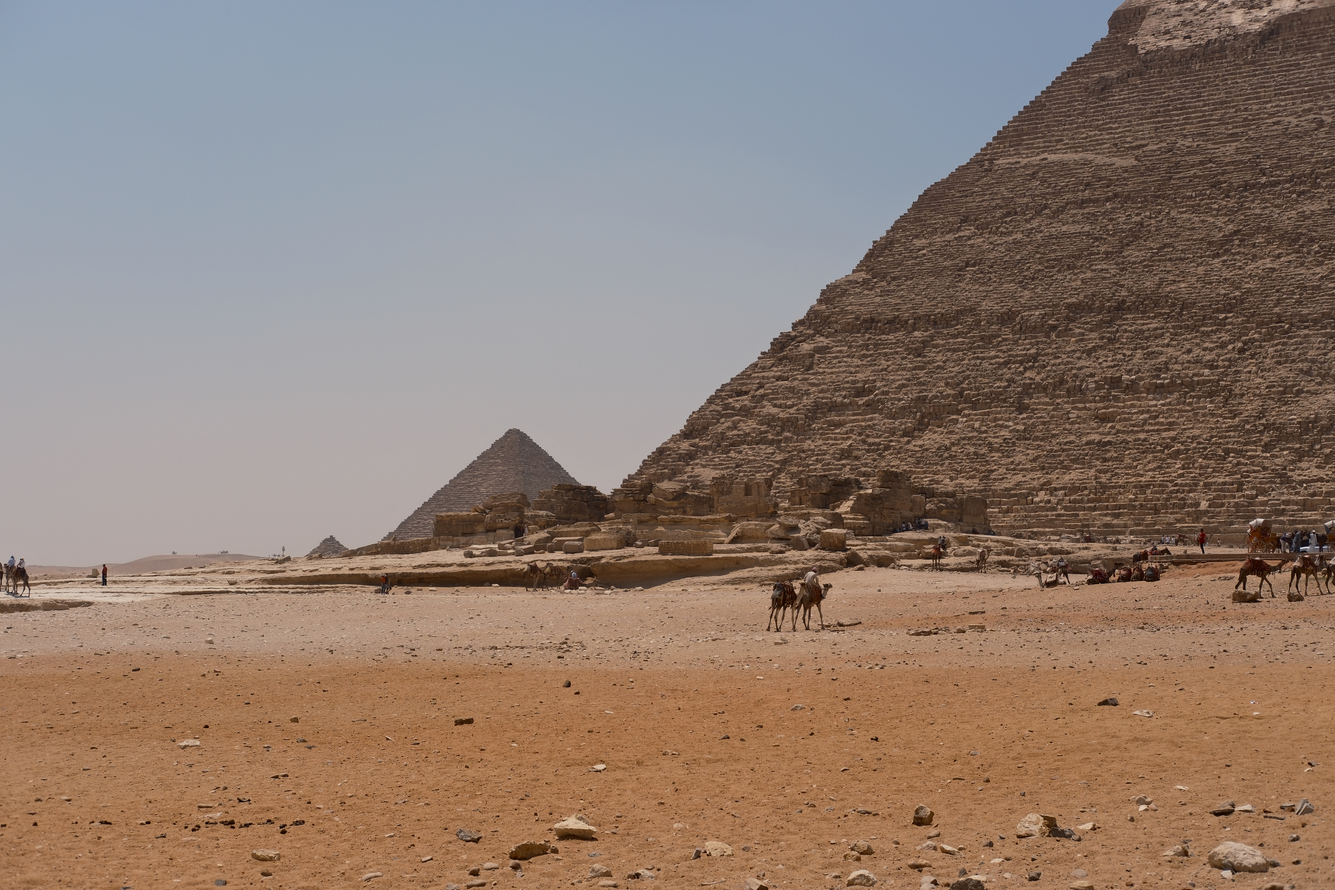
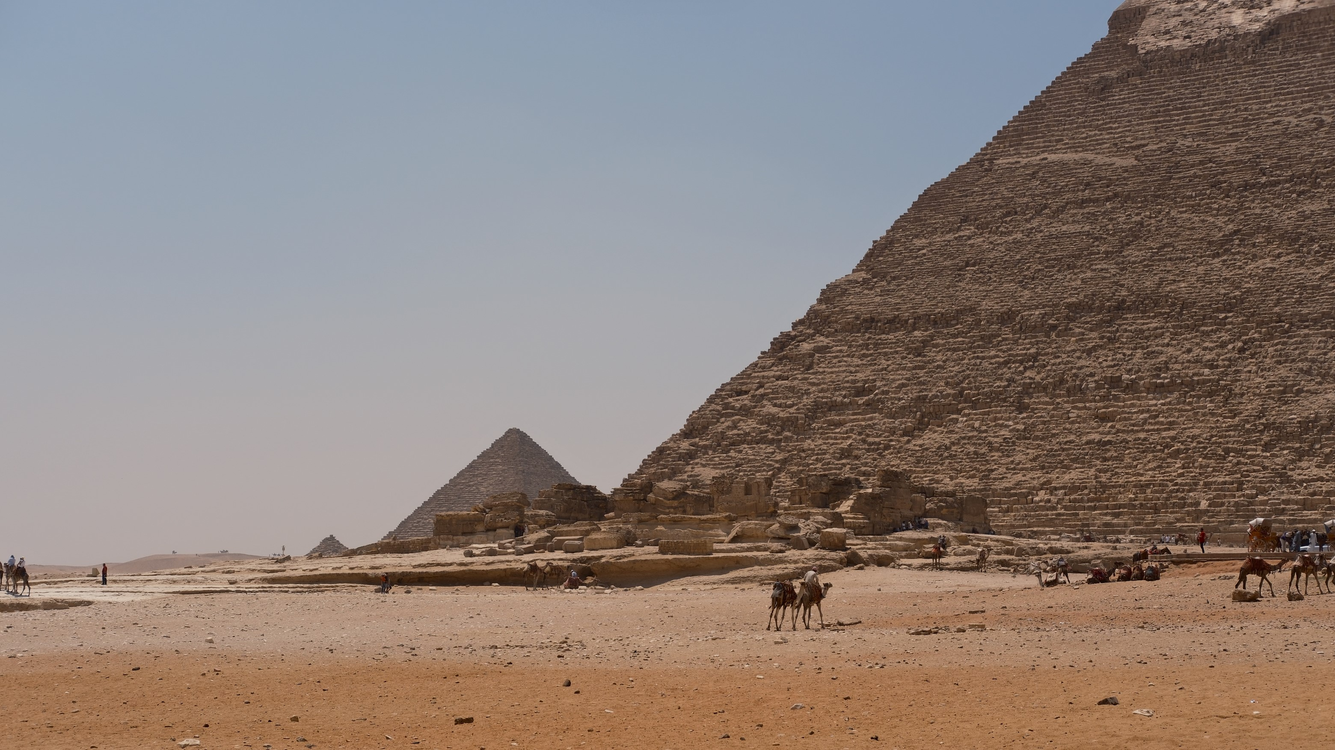
1

diff --git a/project_7/index.html b/project_7/index.html
@@ -10,10 +10,16 @@
     <link rel="preconnect" href="https://fonts.googleapis.com">
     <link rel="preconnect" href="https://fonts.gstatic.com" crossorigin>
     <link href="https://fonts.googleapis.com/css2?family=Hedvig+Letters+Serif:opsz@12..24&display=swap" rel="stylesheet">
+
+    <link href="https://stackpath.bootstrapcdn.com/bootstrap/4.3.1/css/bootstrap.min.css" rel="stylesheet">
 </head>
 <body>
+    <script src="https://code.jquery.com/jquery-3.3.1.slim.min.js"></script>
+    <script src="https://cdnjs.cloudflare.com/ajax/libs/popper.js/1.14.7/umd/popper.min.js"></script>
+    <script src="https://stackpath.bootstrapcdn.com/bootstrap/4.3.1/js/bootstrap.min.js"></script>
     <header>
-        <h1> &nbsp;&nbsp;&nbsp;&nbsp; Yihe Liu - Odyssey</h1>
+        <h1> &nbsp;&nbsp; Yihe Liu - Odyssey</h1>
+        <br>
         <nav>
             &nbsp;<a href="https://leoliu0931.github.io/ist263/project_7/index.html">Homepage</a> &nbsp;&nbsp;&nbsp;&nbsp;
             <a href="https://leoliu0931.github.io/ist263/project_7/gallery.html">Gallery</a> &nbsp;&nbsp;&nbsp;&nbsp;
@@ -22,23 +28,44 @@
             
         </nav>
         <hr>
+        <br>
+
     </header>
     <main>
-        <div>
-            <img src="../project_7/Media/lake_michigan.jpg" alt="View of Lake Michigan">
-            <p>Lake Michigan, 2021</p>
+        <div id="imageCarousel" class="carousel slide" data-ride="carousel">
+            <div class="carousel-inner">
+                <div class="carousel-item active">
+                    <img src="../project_7/Media/wild_2.jpg" class="d-block w-100" alt="Desert Nevada">
+                </div>
+                <div class="carousel-item">
+                    <img src="../project_7/Media/lake_michigan.jpg" class="d-block w-100" alt="View of Lake Michigan">
+                </div>
+                <div class="carousel-item">
+                    <img src="../project_7/Media/egypt.jpg" class="d-block w-100" alt="Pyramid of Khufu">
+                </div>
+            </div>
+
+            <a class="carousel-control-prev" href="#imageCarousel" role="button" data-slide="prev">
+                <span class="carousel-control-prev-icon" aria-hidden="true"></span>
+                <span class="sr-only">Previous</span>
+            </a>
+            <a class="carousel-control-next" href="#imageCarousel" role="button" data-slide="next">
+                <span class="carousel-control-next-icon" aria-hidden="true"></span>
+                <span class="sr-only">Next</span>
+            </a>
         </div>
         <br>
-        <div>
+        <br>
+        <div class="centered-content">
             <p> 
-                Welcome to Leo's Odyssey, It's a voyage that mirrors the spirit of adventure and the quest for 
+                &nbsp;&nbsp; Welcome to Leo's Odyssey, It's a voyage that mirrors the spirit of adventure and the quest for 
                 knowledge, as seen through my eyes. My passion for exploring uncharted territories, capturing fleeting 
                 moments with my camera, and delving into the myriad worlds of books and music, is what fuels this 
                 odyssey
             
             <br>
             <p>
-                Every road I've walked, every landscape I've photographed, every note I've lost myself in, and every 
+                &nbsp;&nbsp; Every road I've walked, every landscape I've photographed, every note I've lost myself in, and every 
                 word I've savored, has shaped the tapestry of my life. This website is a testament to these experiences 
                 and a humble attempt to share them with souls like you, who appreciate the beauty of the world in its 
                 myriad forms.
@@ -47,12 +74,11 @@
 
         </div>
 
-        <br>
-        <br>
+
         <br>
         <br>
 
-        <form action="https://formspree.io/f/xgejndky" method="post">
+        <form class = 'form' action="https://formspree.io/f/xgejndky" method="post">
             <!-- Textarea -->
             <label for="message">Please leave your comment and thoughts to help me improve.</label> <br>
             <textarea id="message" name="message" rows="6" cols="60"></textarea> <br>

diff --git a/project_7/style.css b/project_7/style.css
@@ -6,6 +6,14 @@ body {
     background-color: #FFFFFF;
 }
 
+.centered-content {
+    max-width: 800px; 
+    margin: 0 auto; 
+    text-align: left; 
+    padding: 10px 0;
+}
+
+
 header {
     text-align: left;
     max-width: 800px;
@@ -51,7 +59,7 @@ main div {
 }
 
 main img {
-    max-width: 70%; /* Adjust image size */
+    max-width: 90%; /* Adjust image size */
     height: auto;
     margin: 20px auto;
     border: 1px solid #ddd;

diff --git a/project_7/gallery.html b/project_7/gallery.html
@@ -28,7 +28,7 @@
             <!-- Collection 1 -->
             <div class="photo-collection">
                 <a href="../project_7/p_series_1.html">
-                    <img src="../project_7/Media/wild.jpg" alt="desert Nevada">
+                    <img src="../project_7/Media/wild_2.jpg" alt="desert Nevada">
                     <p>Westbound</p>
                 </a>
             </div>
